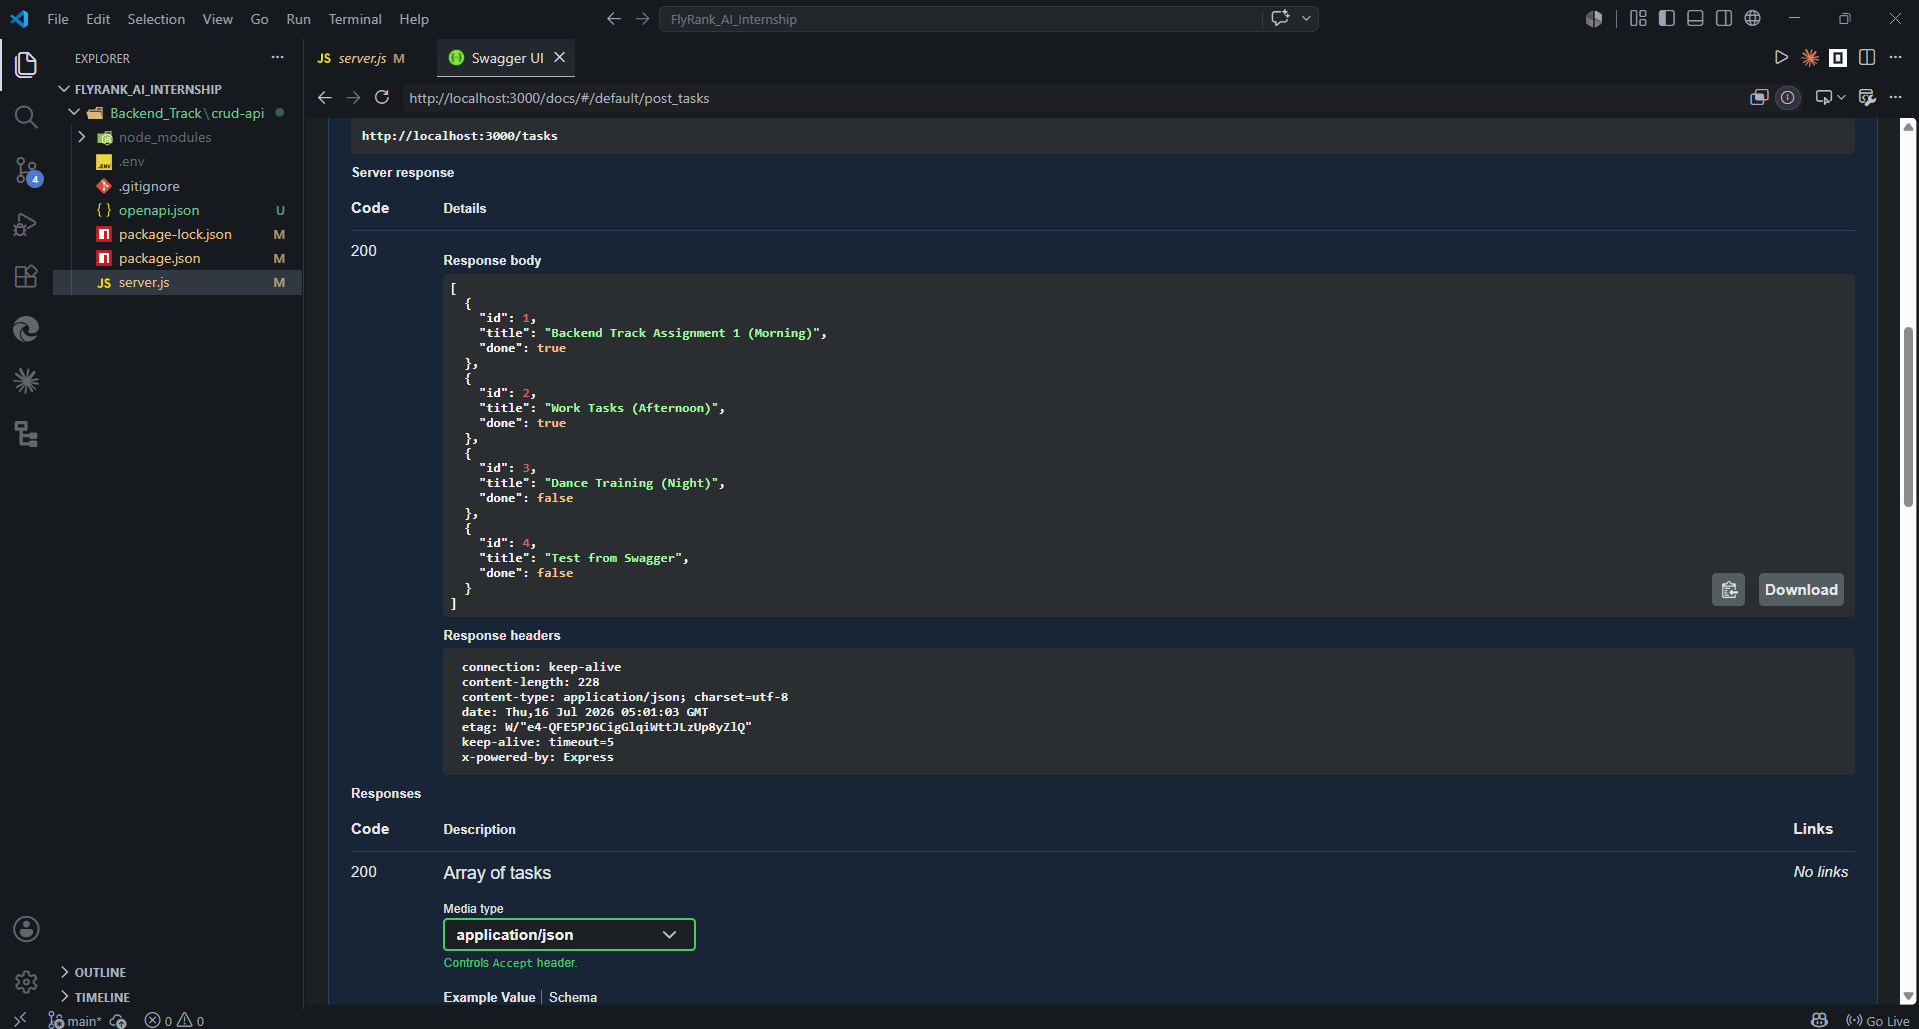
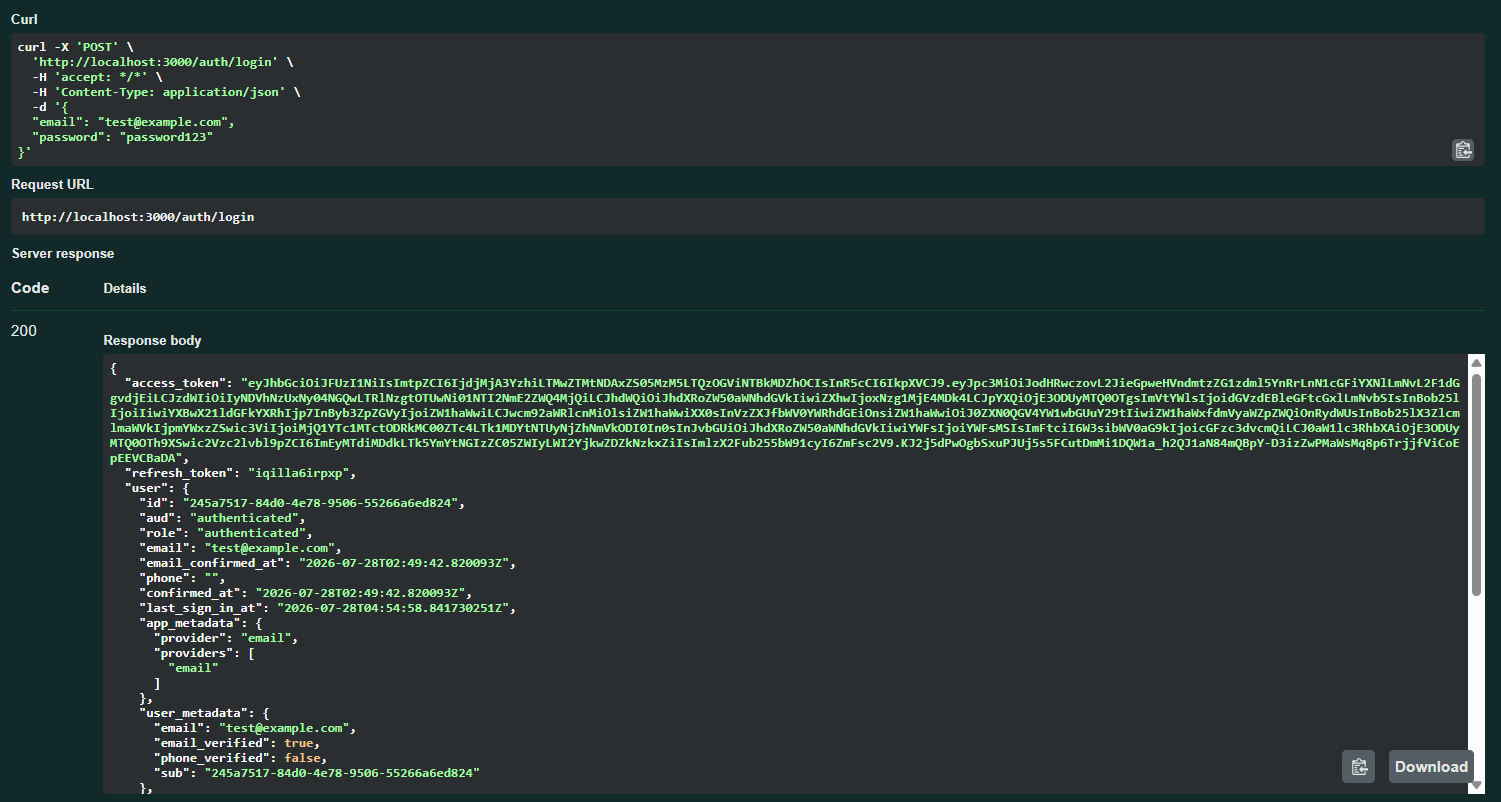
Stage 6: publish to GitHub and write README

diff --git a/README.md b/README.md
@@ -1,12 +1,13 @@
 # Task API
 
-A CRUD API for managing a to-do list, built with Node.js, Express, and PostgreSQL,
-running fully containerized via Docker Compose.
+A CRUD API for managing a to-do list, secured with Supabase Auth, built with
+Node.js, Express, and PostgreSQL, running fully containerized via Docker Compose.
 
 ## Stack
 
 - Node.js + Express
 - PostgreSQL 16 (containerized)
+- Supabase Auth (identity provider, JWT issuance/verification)
 - Docker Compose (app + database, one command)
 
 ## Run it
@@ -23,30 +24,56 @@ Swagger UI: http://localhost:3000/docs
 
 ## Configuration
 
-Copy `.env.example` to `.env` before running. Variables:
+Copy `.env.example` to `.env` before running, then fill in your own Supabase
+project credentials. Variables:
 
 | Variable            | Meaning                                                                                                              |
 |---------------------|----------------------------------------------------------------------------------------------------------------------|
 | `PORT`              | Port the app listens on (default 3000)                                                                               |
 | `DATABASE_URL`      | Postgres connection string (used by the app)                                                                         |
 | `POSTGRES_PASSWORD` | Postgres password (used by `compose.yaml` to configure the `db` service — must match the password in `DATABASE_URL`) |
+| `SUPABASE_URL`      | Your Supabase project URL (Project Settings → API)                                                                   |
+| `SUPABASE_KEY`      | Your Supabase project's anon/public key (Project Settings → API)                                                     |
 
 `.env` is git-ignored — never commit real credentials. `.env.example` holds
-placeholder values so anyone cloning the repo knows which keys to set.
+placeholder values so anyone cloning the repo knows which keys to set — replace
+them with values from your own Supabase project.
+
+## Authentication
+
+Auth is handled by Supabase as the identity provider. The flow:
+
+1. Client sends email/password to `POST /auth/signup` or `POST /auth/login`.
+2. Supabase validates credentials and returns a JWT access token.
+3. Client sends that token on later requests in the `Authorization: Bearer <token>` header.
+4. Protected routes verify the token against Supabase before responding.
+
+**Note on logout:** `POST /auth/logout` revokes the session server-side via
+Supabase — the token stops working immediately on subsequent requests, even
+though its own `exp` claim hasn't been reached yet. Verified directly: a token
+rejected within minutes of logout, well before its 1-hour expiry.
 
 ## Endpoints
 
-| Method | Path          | Description         |
-|--------|---------------|---------------------|
-| GET    | /             | API info            |
-| GET    | /health       | Health check        |
-| GET    | /tasks        | List all tasks      |
-| GET    | /tasks/:id    | Get a single task   |
-| POST   | /tasks        | Create a task       |
-| PUT    | /tasks/:id    | Update a task       |
-| DELETE | /tasks/:id    | Delete a task       |
+| Method | Path                 | Description                         | Auth required  |
+|--------|----------------------|-------------------------------------|:--------------:|
+| GET    | /                    | API info                            | No             |
+| GET    | /health              | Health check                        | No             |
+| GET    | /tasks               | List all tasks                      | No             |
+| GET    | /tasks/:id           | Get a single task                   | No             |
+| POST   | /tasks               | Create a task                       | No             |
+| PUT    | /tasks/:id           | Update a task                       | No             |
+| DELETE | /tasks/:id           | Delete a task                       | No             |
+| POST   | /auth/signup         | Create a new user account           | No             |
+| POST   | /auth/login          | Log in, returns access token        | No             |
+| POST   | /auth/logout         | Terminate the session               | Yes            |
+| GET    | /public/info         | Public, unprotected data            | No             |
+| GET    | /protected/profile   | Read the logged-in user's profile   | Yes            |
+| GET    | /protected/dashboard | Protected dashboard route           | Yes            |
 
-## Example request
+## Example requests
+
+Create a task:
 
     $ curl -i -X POST http://localhost:3000/tasks -H "Content-Type: application/json" -d '{"title":"Buy milk"}'
 
@@ -55,12 +82,27 @@ placeholder values so anyone cloning the repo knows which keys to set.
 
     {"id":4,"title":"Buy milk","done":false}
 
+Log in and call a protected route:
+
+    $ curl -i -X POST http://localhost:3000/auth/login -H "Content-Type: application/json" -d '{"email":"test@example.com","password":"password123"}'
+
+    HTTP/1.1 200 OK
+    { "access_token": "...", "refresh_token": "...", ... }
+
+    $ curl -i http://localhost:3000/protected/profile -H "Authorization: Bearer <access_token>"
+
+    HTTP/1.1 200 OK
+    { "id": "...", "email": "test@example.com", "created_at": "..." }
+
 ## Persistence
 
 Task data lives in a Postgres container backed by a named Docker volume
 (`taskdata`). Data survives `docker compose down` and a later `docker compose up`
 — the volume outlives the containers. It's only lost if you explicitly run
 `docker compose down -v`.
+
+User accounts and sessions are managed entirely by Supabase, not this Postgres
+instance — they persist independently of this container's lifecycle.
 
 ## Exploring the database directly
 
@@ -75,4 +117,11 @@ Then, inside psql:
 
 ## Swagger UI
 
-![Swagger UI](image.png)
+Protected routes (`/auth/logout`, `/protected/profile`, `/protected/dashboard`)
+show a padlock icon. Click "Authorize" at the top of the page, paste an access
+token obtained from `/auth/login`, and "Try it out" on any locked route.
+
+![/auth/login](image.png)
+![/protected/profile](image-1.png)
+![/protected/dashboard](image-3.png)
+![/auth/logout](image-4.png)
